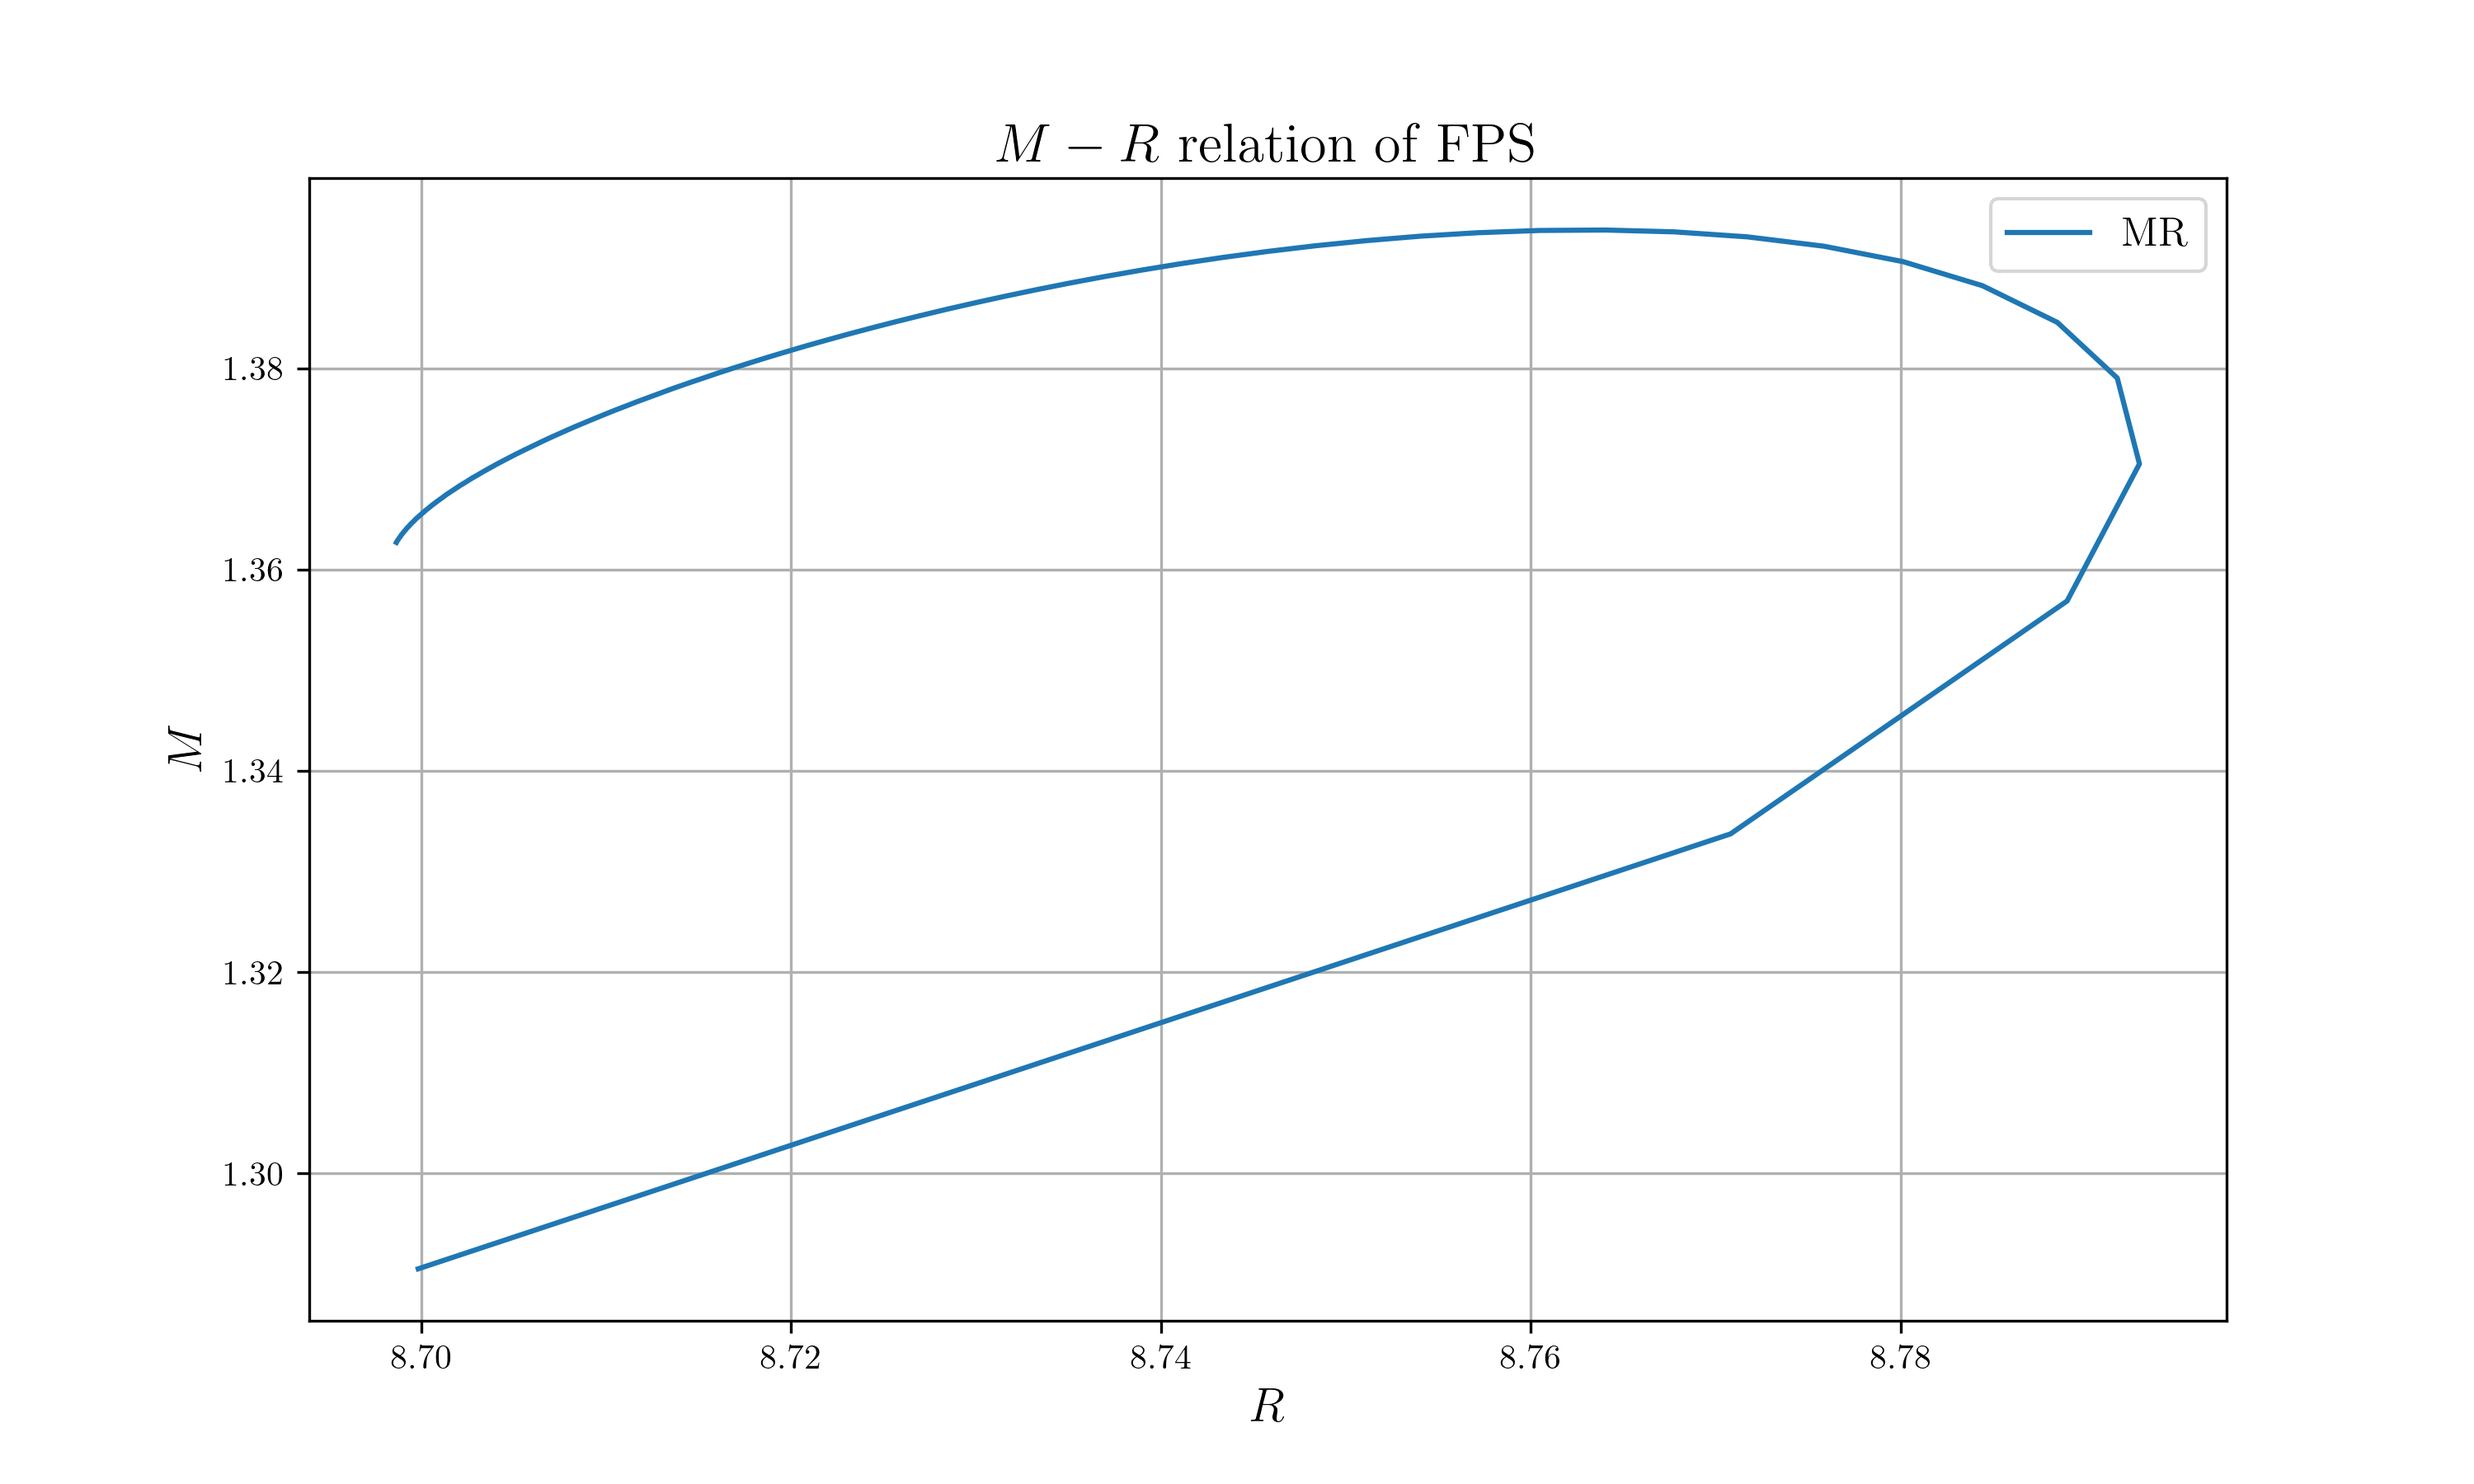
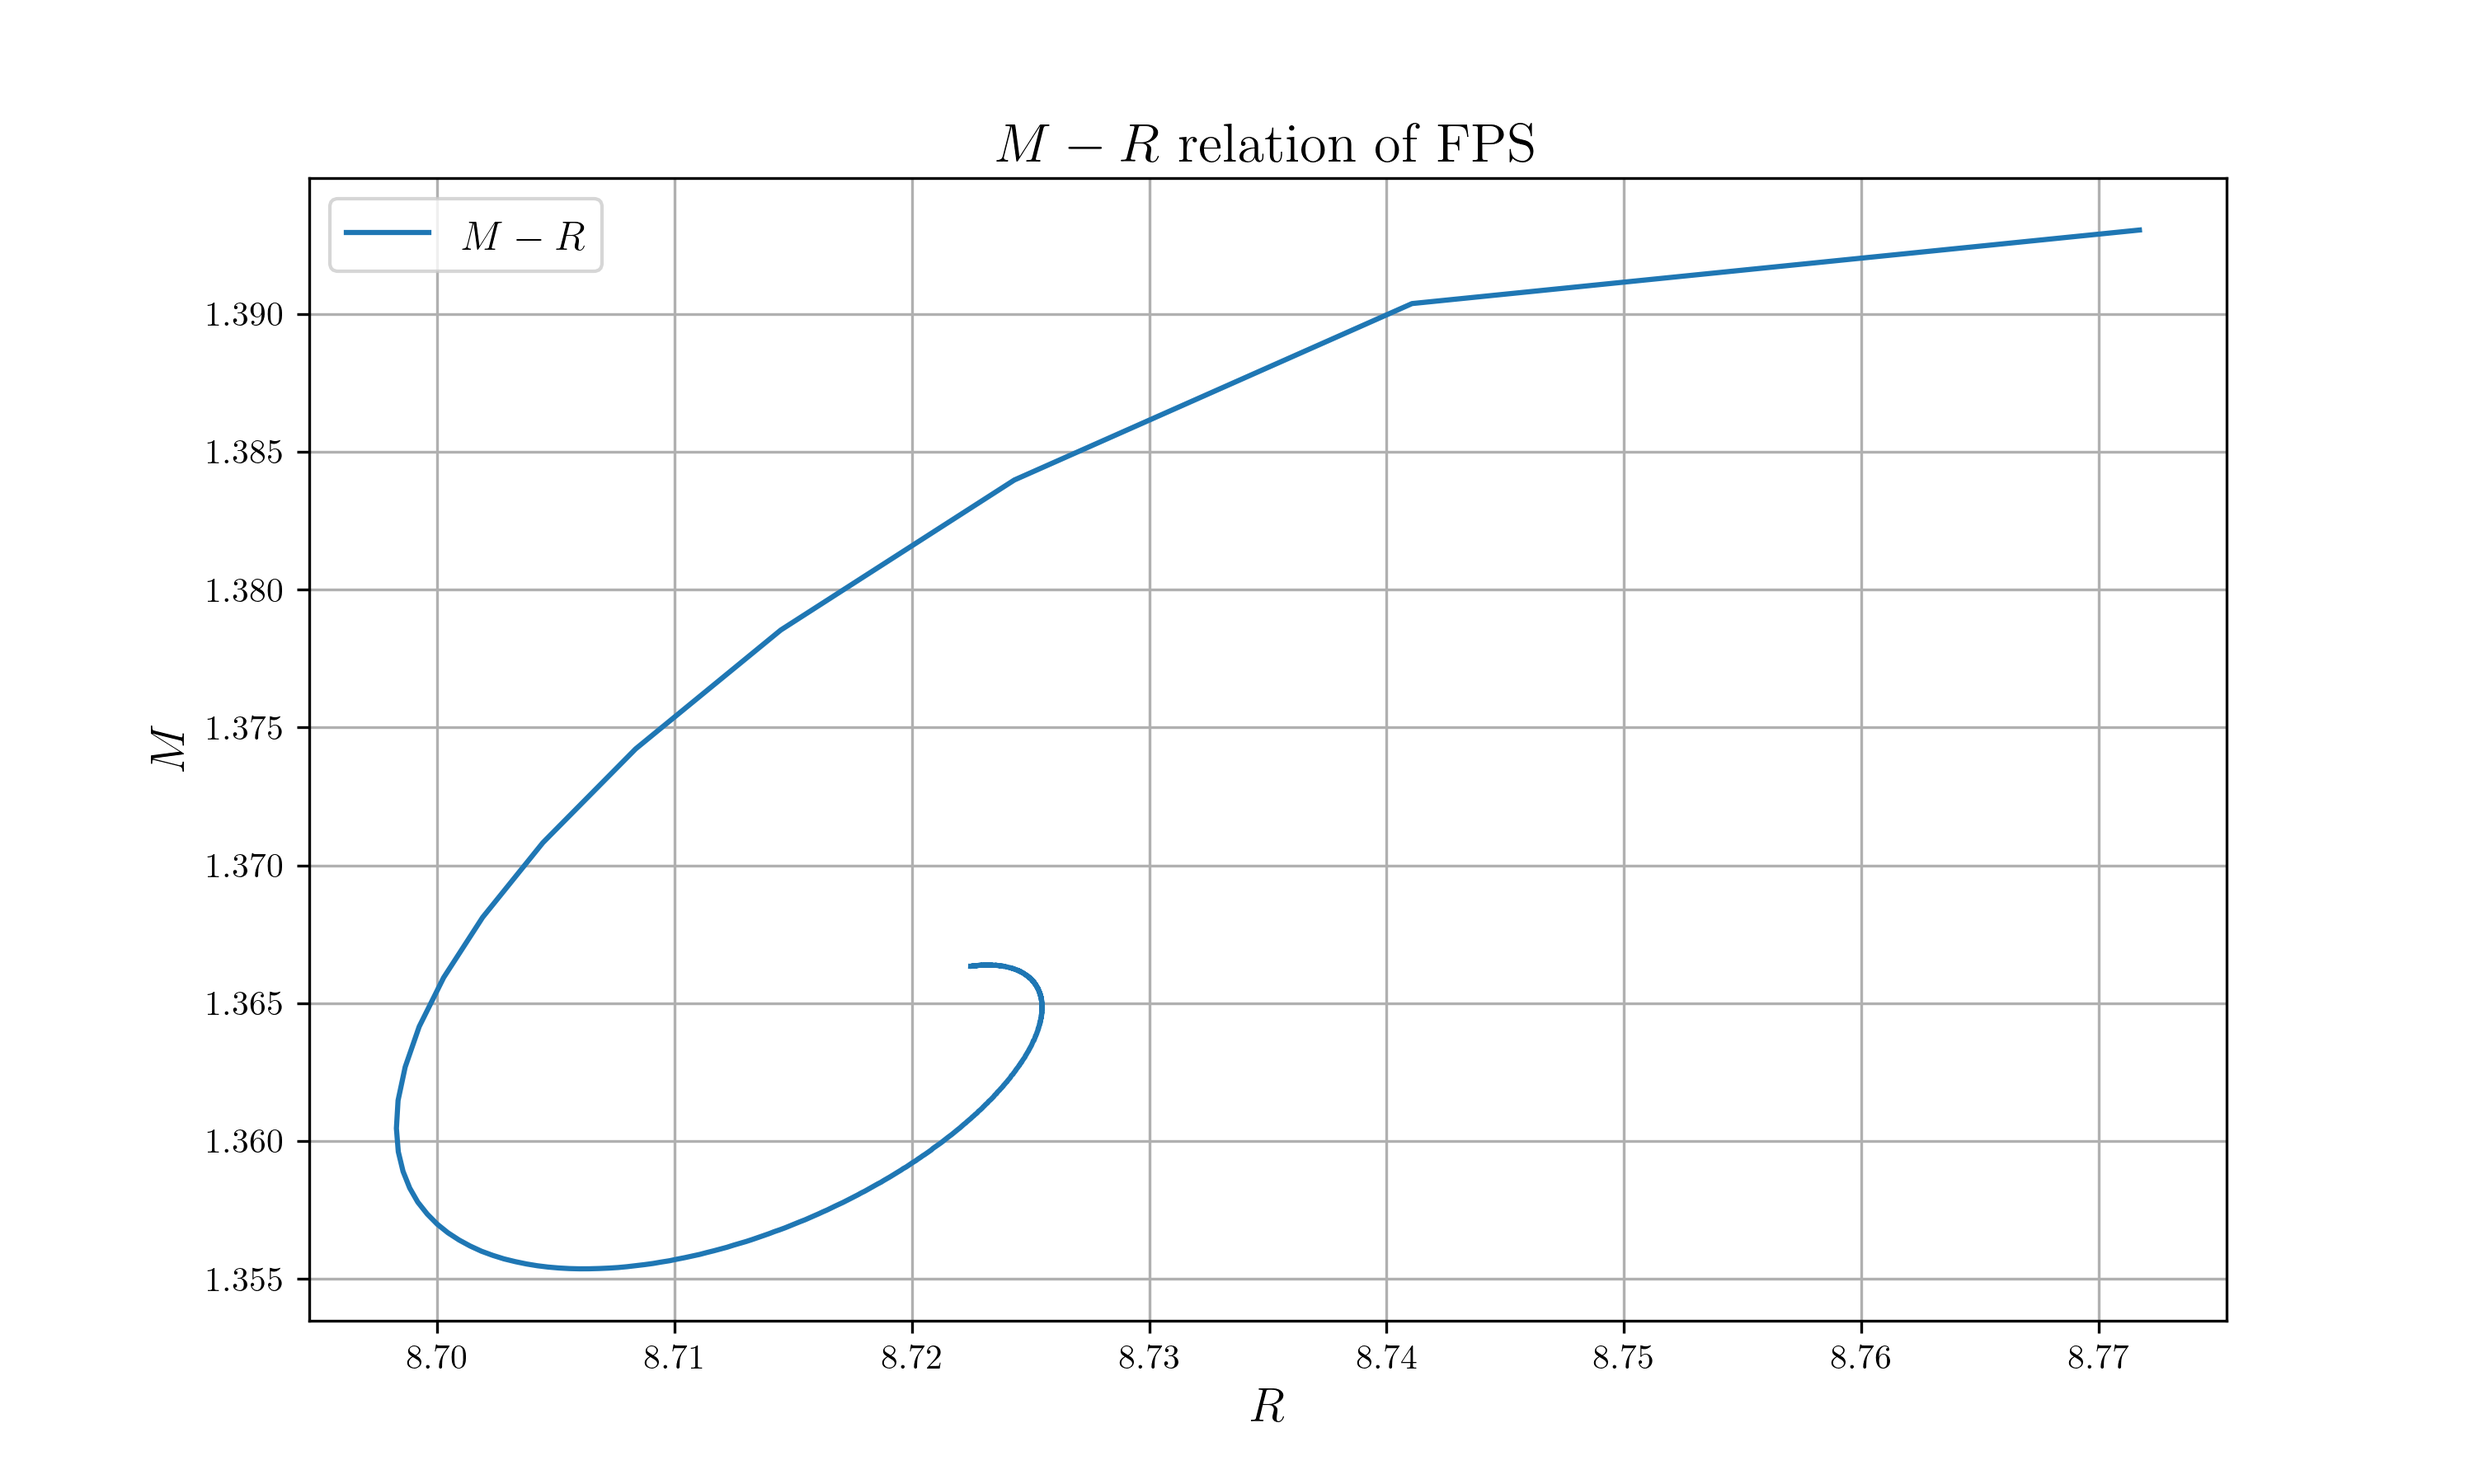
1000 is easy

diff --git a/src/bin/fps_mr.rs b/src/bin/fps_mr.rs
@@ -17,6 +17,8 @@ pub const RHO1: f64 = -5.55f64;
 pub const RHO2: f64 = -3.6f64;
 pub const RHO3: f64 = -2.4f64;
 
+pub const SIZE: usize = 1000usize;
+
 #[allow(non_snake_case)]
 fn main() {
     // Define new unit (c=G=M=1)
@@ -54,9 +56,9 @@ fn main() {
 //    let GAMMA3 = param[3];
 //    let GAMMA4 = param[4];
 
-    let results = (1..101).into_par_iter().map(|idx| {
+    let results = (1..SIZE+1).into_par_iter().map(|idx| {
         // Set Initial Conditions
-        let rho_c = convert(0.1057380000E+18 * (idx as f64), Density, cgs_to_geom);
+        let rho_c = convert(0.1057380000E+18 * (10f64 * idx as f64), Density, cgs_to_geom);
         let r_step = convert(10_000_00f64, Length, cgs_to_geom);
         let m_c = 0f64;
         let init_state = State::<f64>::new(0f64, vec![m_c, rho_c], vec![0f64; 2]);
